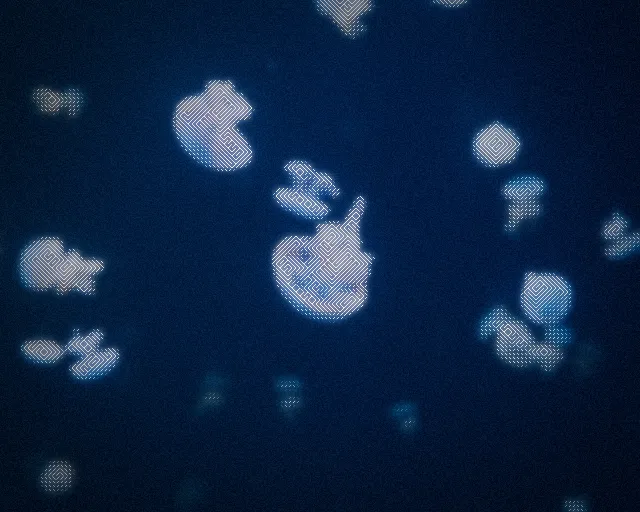
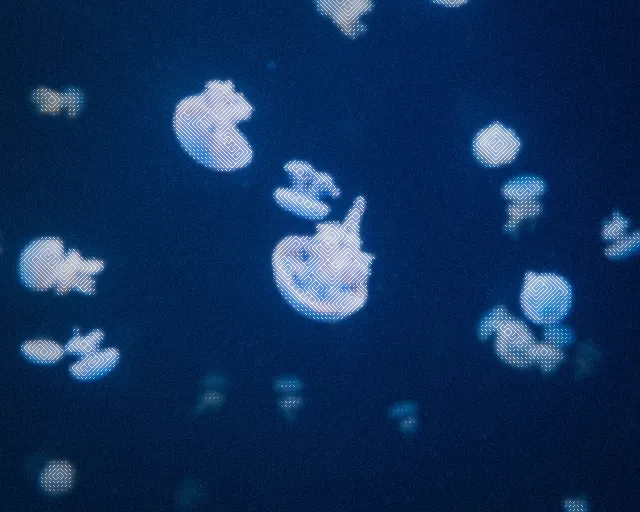
Raise cross, diagonal and dots background opacity to 0.85, and add remove buttons to the filmstrip

diff --git a/src/app/Gallery.tsx b/src/app/Gallery.tsx
@@ -103,20 +103,30 @@ const SourceThumb = memo(function SourceThumb({ bitmap }: { bitmap: ImageBitmap 
   return <canvas ref={ref} className="block h-12 w-auto" />;
 });
 
-export function Filmstrip({ images, activeId, onSelect, onAdd }: { images: Img[]; activeId: number | null; onSelect: (id: number) => void; onAdd: () => void }) {
+export function Filmstrip({ images, activeId, onSelect, onRemove, onAdd }: {
+  images: Img[]; activeId: number | null; onSelect: (id: number) => void; onRemove: (id: number) => void; onAdd: () => void;
+}) {
   return (
     <div className="glass absolute bottom-12 left-1/2 flex max-w-[calc(100%-2rem)] -translate-x-1/2 items-center gap-1.5 overflow-x-auto rounded-xl border border-line p-1.5 shadow-lg">
       {images.map((img) => (
-        <button
-          key={img.id}
-          onClick={() => onSelect(img.id)}
-          aria-label={img.name}
-          title={img.name}
-          className={cx('press shrink-0 overflow-hidden rounded-md outline-none ring-2 ring-offset-0 transition-[box-shadow,opacity] duration-150 focus-visible:ring-accent/60',
-            img.id === activeId ? 'ring-accent' : 'opacity-60 ring-transparent hover:opacity-100')}
-        >
-          <SourceThumb bitmap={img.bitmap} />
-        </button>
+        <div key={img.id} className="group relative shrink-0">
+          <button
+            onClick={() => onSelect(img.id)}
+            aria-label={img.name}
+            title={img.name}
+            className={cx('press block overflow-hidden rounded-md outline-none ring-2 ring-offset-0 transition-[box-shadow,opacity] duration-150 focus-visible:ring-accent/60',
+              img.id === activeId ? 'ring-accent' : 'opacity-60 ring-transparent hover:opacity-100')}
+          >
+            <SourceThumb bitmap={img.bitmap} />
+          </button>
+          <button
+            onClick={() => onRemove(img.id)}
+            aria-label={`Remove ${img.name}`}
+            className="press glass absolute top-1 right-1 flex size-5 items-center justify-center rounded border border-line text-muted opacity-0 transition-opacity duration-150 group-hover:opacity-100 hover:text-fg focus-visible:opacity-100 pointer-coarse:opacity-100"
+          >
+            <X className="size-3" />
+          </button>
+        </div>
       ))}
       <button onClick={onAdd} aria-label="Add images" className="press flex h-12 w-10 shrink-0 items-center justify-center rounded-md border border-dashed border-line-strong text-muted hover:text-fg">
         <Plus className="size-4" />

diff --git a/src/engine/params.ts b/src/engine/params.ts
@@ -166,18 +166,18 @@ export const PRESETS: Record<string, { description: string; params: Partial<Para
   },
   cross: {
     description: 'Cross-stitch "+" and "×" marks that grow with brightness',
-    params: { style: 'cross', cellSize: 16, threshold: 0.28, strokeWidth: 0.1, bgBlur: 3, bgOpacity: 0.55, glyphTint: 0.3, glyphBoost: 1.5, bloom: 0.6 },
+    params: { style: 'cross', cellSize: 16, threshold: 0.28, strokeWidth: 0.1, bgBlur: 3, bgOpacity: 0.85, glyphTint: 0.3, glyphBoost: 1.5, bloom: 0.6 },
   },
   diagonal: {
     description: 'Hatched slashes that follow the image edges, warm film look',
     params: {
       style: 'diagonal', cellSize: 12, threshold: 0.25, strokeWidth: 0.09, diagonalMode: 'edge', bgBlur: 5,
-      bgOpacity: 0.65, glyphTint: 0.35, glyphBoost: 1.5, bloom: 0.4, vignette: 0.25, grain: 0.06,
+      bgOpacity: 0.85, glyphTint: 0.35, glyphBoost: 1.5, bloom: 0.4, vignette: 0.25, grain: 0.06,
     },
   },
   dots: {
     description: 'Halftone dots that scale with brightness',
-    params: { style: 'dots', cellSize: 12, threshold: 0.12, bgBlur: 5, bgOpacity: 0.35, glyphTint: 0.2, bloom: 0.3 },
+    params: { style: 'dots', cellSize: 12, threshold: 0.12, bgBlur: 5, bgOpacity: 0.85, glyphTint: 0.2, bloom: 0.3 },
   },
   'full-ascii': {
     description: 'Classic ASCII art: every cell becomes a character, in the source colors on black',

diff --git a/src/app/App.tsx b/src/app/App.tsx
@@ -443,7 +443,7 @@ export function App() {
             </div>
           )}
 
-          {!grid && images.length > 1 && <Filmstrip images={images} activeId={activeId} onSelect={setActiveId} onAdd={() => fileInput.current?.click()} />}
+          {!grid && images.length > 1 && <Filmstrip images={images} activeId={activeId} onSelect={setActiveId} onRemove={removeImage} onAdd={() => fileInput.current?.click()} />}
 
           {!grid && active && shown && frame && (
             <div className="glass absolute bottom-3 left-1/2 z-10 flex -translate-x-1/2 items-center gap-3 rounded-full border border-line px-3 py-1 font-mono text-[11px] text-muted tabular-nums">
